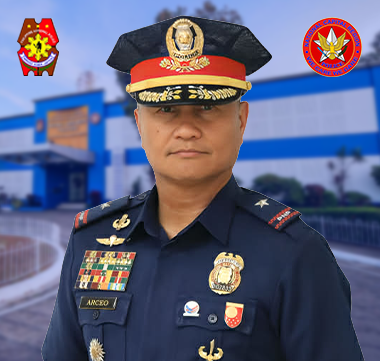
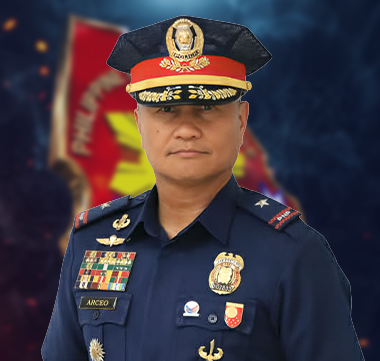
first commit

diff --git a/app/components/Loader.js b/app/components/Loader.js
@@ -5,12 +5,12 @@ import { useEffect, useState } from 'react';
 
 const BlastLoader = () => {
   const [phase, setPhase] = useState(0);
-  // phase 0 → hidden, 1 → logo in, 2 → text in, 3 → bar fills
+  // 0 → hidden | 1 → logo in | 2 → text in | 3 → bar fills
 
   useEffect(() => {
-    const t1 = setTimeout(() => setPhase(1), 100);   // logo appears
-    const t2 = setTimeout(() => setPhase(2), 700);   // text slides up
-    const t3 = setTimeout(() => setPhase(3), 1100);  // bar starts filling
+    const t1 = setTimeout(() => setPhase(1), 100);
+    const t2 = setTimeout(() => setPhase(2), 750);
+    const t3 = setTimeout(() => setPhase(3), 1050);
     return () => { clearTimeout(t1); clearTimeout(t2); clearTimeout(t3); };
   }, []);
 
@@ -18,104 +18,165 @@ const BlastLoader = () => {
     <div className="relative h-full w-full bg-[url('/bg-background.jpg')] bg-cover bg-center flex items-center justify-center overflow-hidden">
 
       {/* Dark overlay */}
-      <div className="absolute inset-0 bg-black/55" />
+      <div className="absolute inset-0 bg-black/60" />
 
-      {/* Radial glow behind logo */}
+      {/* Large ambient radial glow — breathes with logo */}
       <div
-        className="absolute w-64 h-64 rounded-full pointer-events-none transition-opacity duration-700"
+        className="absolute w-80 h-80 rounded-full pointer-events-none"
         style={{
-          background: 'radial-gradient(circle, rgba(59,130,246,0.25) 0%, transparent 70%)',
+          background: 'radial-gradient(circle, rgba(59,130,246,0.18) 0%, transparent 70%)',
           opacity: phase >= 1 ? 1 : 0,
+          transition: 'opacity 0.8s ease',
+          animation: phase >= 1 ? 'breathe 3s ease-in-out infinite' : 'none',
         }}
       />
 
-      {/* Main content */}
-      <div className="relative z-10 flex flex-col items-center gap-5 px-6">
+      {/* Main content — tighter gap */}
+      <div className="relative z-10 flex flex-col items-center gap-2 px-6">
 
-        {/* Logo — scale + fade in */}
+        {/* ── LOGO BLOCK ── */}
         <div
-          className="transition-all duration-700 ease-out"
           style={{
             opacity: phase >= 1 ? 1 : 0,
-            transform: phase >= 1 ? 'scale(1) translateY(0px)' : 'scale(0.6) translateY(20px)',
+            transform: phase >= 1 ? 'scale(1) translateY(0px)' : 'scale(0.5) translateY(24px)',
+            transition: 'opacity 0.7s ease-out, transform 0.7s cubic-bezier(0.34,1.56,0.64,1)',
           }}
         >
-          {/* Spinning ring around logo */}
           <div className="relative flex items-center justify-center">
+
+            {/* Outer ring — spins clockwise, dashed */}
             <div
-              className="absolute w-[170px] h-[170px] rounded-full border-2 border-transparent"
+              className="absolute rounded-full"
               style={{
-                background: 'conic-gradient(from 0deg, #3b82f6, #06b6d4, #6366f1, #3b82f6) border-box',
+                width: 190,
+                height: 190,
+                border: '2px dashed rgba(99,102,241,0.55)',
+                animation: phase >= 1 ? 'spinCW 6s linear infinite' : 'none',
+              }}
+            />
+
+            {/* Middle ring — spins counter-clockwise, solid gradient */}
+            <div
+              className="absolute rounded-full"
+              style={{
+                width: 170,
+                height: 170,
+                border: '2.5px solid transparent',
+                backgroundImage: 'conic-gradient(from 0deg, #3b82f6 0%, #06b6d4 40%, transparent 60%, #6366f1 80%, #3b82f6 100%)',
+                backgroundOrigin: 'border-box',
                 WebkitMask: 'linear-gradient(#fff 0 0) padding-box, linear-gradient(#fff 0 0)',
                 WebkitMaskComposite: 'destination-out',
                 maskComposite: 'exclude',
-                animation: phase >= 1 ? 'spin 2.5s linear infinite' : 'none',
+                animation: phase >= 1 ? 'spinCCW 3s linear infinite' : 'none',
               }}
             />
-            {/* Glow ring */}
+
+            {/* Inner glow ring — breathes */}
             <div
-              className="absolute w-[155px] h-[155px] rounded-full"
+              className="absolute rounded-full"
               style={{
-                boxShadow: phase >= 1 ? '0 0 30px 8px rgba(59,130,246,0.35)' : 'none',
-                transition: 'box-shadow 0.8s ease',
+                width: 152,
+                height: 152,
+                boxShadow: phase >= 1
+                  ? '0 0 0 3px rgba(59,130,246,0.15), 0 0 28px 6px rgba(59,130,246,0.3), inset 0 0 20px 4px rgba(59,130,246,0.1)'
+                  : 'none',
+                transition: 'box-shadow 0.9s ease',
+                animation: phase >= 1 ? 'glowPulse 2.5s ease-in-out infinite' : 'none',
+                borderRadius: '50%',
               }}
             />
+
+            {/* Logo image */}
             <Image
-              src="/NCRPO_logo.png"
+              src="/pnp-logo.png"
               alt="SPD Logo"
               width={250}
               height={250}
-              className="relative z-10 drop-shadow-[0_4px_16px_rgba(59,130,246,0.5)]"
+              className="relative z-10"
+              style={{
+                filter: phase >= 1
+                  ? 'drop-shadow(0 0 12px rgba(255, 0, 64, 0.5)) drop-shadow(0 4px 16px rgba(0,0,0,0.6))'
+                  : 'none',
+                transition: 'filter 0.8s ease',
+                animation: phase >= 1 ? 'logoFloat 4s ease-in-out infinite' : 'none',
+              }}
               priority
             />
+
           </div>
         </div>
 
-        {/* Text block — slide up + fade in */}
+        {/* ── TEXT BLOCK — tight to logo ── */}
         <div
-          className="flex flex-col items-center text-center gap-1 transition-all duration-700 ease-out"
+          className="flex flex-col items-center text-center"
           style={{
             opacity: phase >= 2 ? 1 : 0,
-            transform: phase >= 2 ? 'translateY(0px)' : 'translateY(18px)',
+            transform: phase >= 2 ? 'translateY(0px)' : 'translateY(14px)',
+            transition: 'opacity 0.6s ease-out, transform 0.6s ease-out',
+            gap: '2px',
           }}
         >
-          <h1 className="text-lg font-extrabold tracking-widest text-white drop-shadow-[0_2px_8px_rgba(0,0,0,0.8)] uppercase">
-            National Capital Region Police Office
-          </h1>
-          <p
-            className="text-[11px] tracking-[0.3em] uppercase font-medium transition-all duration-500"
+          <h1
+            className="font-extrabold uppercase text-white"
             style={{
-              opacity: phase >= 2 ? 1 : 0,
-              color: '#93c5fd',
-              transitionDelay: '150ms',
+              fontSize: '1rem',
+              letterSpacing: '0.2em',
+              textShadow: '0 2px 12px rgba(0,0,0,0.9), 0 0 20px rgba(59,130,246,0.4)',
+              lineHeight: 1.2,
             }}
           >
-            We Care We Dare
-          </p>
+        philippine national police
+          </h1>
+          
         </div>
 
-        {/* Progress bar */}
+        {/* ── PROGRESS BAR ── */}
         <div
-          className="w-48 h-[3px] rounded-full bg-white/10 overflow-hidden transition-opacity duration-500"
-          style={{ opacity: phase >= 3 ? 1 : 0 }}
+          style={{
+            marginTop: '14px',
+            width: '160px',
+            height: '2px',
+            borderRadius: '9999px',
+            background: 'rgba(255,255,255,0.08)',
+            overflow: 'hidden',
+            opacity: phase >= 3 ? 1 : 0,
+            transition: 'opacity 0.4s ease',
+          }}
         >
           <div
-            className="h-full rounded-full"
             style={{
+              height: '100%',
+              borderRadius: '9999px',
               background: 'linear-gradient(90deg, #3b82f6, #06b6d4, #6366f1)',
               width: phase >= 3 ? '100%' : '0%',
-              transition: 'width 2.2s cubic-bezier(0.4, 0, 0.2, 1)',
+              transition: 'width 2.3s cubic-bezier(0.4, 0, 0.2, 1)',
+              boxShadow: '0 0 8px rgba(59,130,246,0.7)',
             }}
           />
         </div>
 
       </div>
 
-      {/* Keyframe for the spinning ring (inline style fallback) */}
       <style>{`
-        @keyframes spin {
+        @keyframes spinCW {
           from { transform: rotate(0deg); }
           to   { transform: rotate(360deg); }
+        }
+        @keyframes spinCCW {
+          from { transform: rotate(0deg); }
+          to   { transform: rotate(-360deg); }
+        }
+        @keyframes glowPulse {
+          0%, 100% { box-shadow: 0 0 0 3px rgba(59,130,246,0.15), 0 0 28px 6px rgba(59,130,246,0.3), inset 0 0 20px 4px rgba(59,130,246,0.1); }
+          50%       { box-shadow: 0 0 0 5px rgba(99,102,241,0.2),  0 0 40px 12px rgba(99,102,241,0.45), inset 0 0 28px 8px rgba(99,102,241,0.15); }
+        }
+        @keyframes logoFloat {
+          0%, 100% { transform: translateY(0px); }
+          50%       { transform: translateY(-5px); }
+        }
+        @keyframes breathe {
+          0%, 100% { transform: scale(1);    opacity: 0.9; }
+          50%       { transform: scale(1.15); opacity: 1;   }
         }
       `}</style>
     </div>

diff --git a/app/page.js b/app/page.js
@@ -25,13 +25,18 @@ export default function Home() {
     <div className="min-h-screen w-full flex flex-col items-center justify-center p-3 sm:p-8 font-[family-name:var(--font-geist-sans)] select-none">
       <div className="relative group w-full flex justify-center">
         {/* Tablet & Desktop Ambient Glow Effect */}
-        <div className="absolute -inset-1 bg-gradient-to-r from-blue-600 via-cyan-500 to-indigo-600 rounded-2xl blur-2xl opacity-20 group-hover:opacity-35 transition duration-1000 group-hover:duration-300 pointer-events-none hidden md:block"></div>
+        <div className="absolute -inset-1 bg-gradient-to-r from-red-600 via-rose-500 to-red-700 rounded-2xl blur-2xl opacity-20 group-hover:opacity-35 transition duration-1000 group-hover:duration-300 pointer-events-none hidden md:block"></div>
         
         {/* Outer border container with rotating conic gradient */}
-        <div className="relative w-full max-w-[290px] min-[360px]:max-w-[340px] sm:max-w-[360px] md:max-w-[380px] p-[2px] rounded-2xl overflow-hidden bg-slate-900 shadow-2xl transition-all duration-300 hover:shadow-[0_20px_50px_rgba(30,58,138,0.4)] hover:-translate-y-0.5">
+        <div className="relative w-full max-w-[290px] min-[360px]:max-w-[340px] sm:max-w-[360px] md:max-w-[380px] p-[2px] rounded-2xl overflow-hidden bg-slate-900 shadow-2xl transition-all duration-300 hover:shadow-[0_20px_50px_rgba(185,28,28,0.4)] hover:-translate-y-0.5">
           
-          {/* Rotating Light Line (Conic Gradient) */}
-          <div className="absolute inset-[-1000%] animate-[spin_8s_linear_infinite] bg-[conic-gradient(from_90deg_at_50%_50%,#0055ff_0%,#00f0ff_25%,#090d16_50%,#00f0ff_75%,#0055ff_100%)]"></div>
+          {/* Rotating Light Line (Conic Gradient) — neon red, reduced opacity */}
+          <div
+            className="absolute inset-[-1000%] animate-[spin_8s_linear_infinite]"
+            style={{
+              background: 'conic-gradient(from 90deg at 50% 50%, rgba(220,38,38,0.55) 0%, rgba(248,113,113,0.35) 25%, #090d16 50%, rgba(248,113,113,0.35) 75%, rgba(220,38,38,0.55) 100%)',
+            }}
+          />
           
           {/* Calling Card Inner Container */}
           <div className="relative w-full bg-slate-950 rounded-[14px] overflow-hidden flex flex-col">
@@ -58,9 +63,18 @@ export default function Home() {
                 <h2 className="text-[19px] min-[360px]:text-[22px] sm:text-2xl font-black text-white text-center tracking-wide leading-tight">
                   PBGEN RANDY Y ARCEO
                 </h2>
-                <p className="text-[7px] tracking-[0.25em] min-[360px]:tracking-[0.4em] text-blue-200 text-center uppercase font-medium mt-1">
-                  Acting, Deputy Regional Director for Administration
-                </p>
+
+                {/* Decorative line divider */}
+                <div className="flex items-center justify-center gap-2 mt-3 w-full max-w-[220px]">
+                  <div className="flex-1 h-[1px] bg-gradient-to-r from-transparent via-blue-400/60 to-blue-300/80" />
+                  <div className="flex items-center gap-1">
+                    <div className="w-1 h-1 rounded-full bg-blue-300/70" />
+                    <div className="w-1.5 h-1.5 rotate-45 bg-blue-200/90 shadow-[0_0_4px_rgba(147,197,253,0.8)]" />
+                    <div className="w-1 h-1 rounded-full bg-blue-300/70" />
+                  </div>
+                  <div className="flex-1 h-[1px] bg-gradient-to-l from-transparent via-blue-400/60 to-blue-300/80" />
+                </div>
+
               </div>
             </div>
 
@@ -71,14 +85,14 @@ export default function Home() {
                 text="SLIDE TO CALL"
                 targetUrl={`tel:${phoneNumber}`}
                 successText="CALLING..."
-                activeColorClass="from-blue-600 to-cyan-500"
+                activeColorClass="from-red-600 to-rose-500"
               />
               <SlideButton
                 iconSrc="/mail.png"
                 text="SLIDE TO EMAIL"
                 targetUrl={`mailto:${emailAddress}`}
                 successText="EMAILING..."
-                activeColorClass="from-indigo-600 to-purple-500"
+                activeColorClass="from-red-700 to-red-500"
               />
             </div>
 
@@ -89,14 +103,24 @@ export default function Home() {
 
             {/* Footer Logo & Tagline */}
             <div className="flex flex-col items-center gap-2 pb-6 pt-2 px-5 bg-slate-950/40 border-t border-slate-900/50">
-              <Image
-                src="/Bagong-Pilipinas-logo.svg"
-                alt="Bagong Pilipinas Logo"
-                width={42}
-                height={42}
-                className="opacity-90 drop-shadow-[0_2px_8px_rgba(255,255,255,0.1)]"
-                aria-hidden="true"
-              />
+              <div className="flex items-center justify-center gap-3">
+                <Image
+                  src="/pnp-logo.svg"
+                  alt="PNP Logo"
+                  width={42}
+                  height={42}
+                  className="opacity-90 drop-shadow-[0_2px_8px_rgba(255,255,255,0.1)]"
+                  aria-hidden="true"
+                />
+                <Image
+                  src="/Bagong-Pilipinas-logo.svg"
+                  alt="Bagong Pilipinas Logo"
+                  width={42}
+                  height={42}
+                  className="opacity-90 drop-shadow-[0_2px_8px_rgba(255,255,255,0.1)]"
+                  aria-hidden="true"
+                />
+              </div>
               <p className="text-[10px] min-[360px]:text-xs text-center text-slate-400 font-medium max-w-[260px] min-[360px]:max-w-[300px] leading-relaxed">
                 “Bagong PNP para sa Bagong Pilipinas: Serbisyong Mabilis, Tapat, at Nararamdaman”
               </p>

diff --git a/app/components/SlideButton.js b/app/components/SlideButton.js
@@ -2,7 +2,7 @@
 import { useState, useRef, useEffect } from 'react';
 import Image from 'next/image';
 
-export default function SlideButton({ iconSrc, text, targetUrl, successText, activeColorClass = 'from-blue-600 to-indigo-600' }) {
+export default function SlideButton({ iconSrc, text, targetUrl, successText, activeColorClass = 'from-red-600 to-rose-500' }) {
   const [dragX, setDragX] = useState(0);
   const [isDragging, setIsDragging] = useState(false);
   const [isCompleted, setIsCompleted] = useState(false);
@@ -77,7 +77,7 @@ export default function SlideButton({ iconSrc, text, targetUrl, successText, act
   return (
     <div 
       ref={containerRef}
-      className="relative w-full max-w-[320px] h-16 bg-blue-950/70 border border-blue-900/40 rounded-full flex items-center p-1 overflow-hidden select-none shadow-[inset_0_2px_6px_rgba(0,0,0,0.8)] touch-none"
+      className="relative w-full max-w-[320px] h-16 bg-slate-900/80 border border-slate-700/50 rounded-full flex items-center p-1 overflow-hidden select-none shadow-[inset_0_2px_6px_rgba(0,0,0,0.8)] touch-none"
     >
       {/* Background Completed Progress Gradient */}
       <div 

diff --git a/app/components/AddContact.js b/app/components/AddContact.js
@@ -42,7 +42,7 @@ export default function App() {
   return (
     <div className="flex w-full justify-center mt-5 px-6">
       <button
-        className="w-full max-w-[320px] px-6 py-4 bg-gradient-to-r from-yellow-500 via-amber-500 to-yellow-600 hover:from-yellow-400 hover:to-amber-500 text-slate-950 rounded-full font-extrabold tracking-widest outline-none focus:ring-2 focus:ring-yellow-400 shadow-[0_4px_15px_rgba(245,158,11,0.3)] hover:shadow-[0_4px_20px_rgba(245,158,11,0.5)] transform active:scale-95 transition-all duration-200 flex items-center justify-center gap-2 text-sm cursor-pointer"
+        className="w-full max-w-[320px] px-6 py-4 bg-gradient-to-r from-red-600 via-rose-600 to-red-700 hover:from-red-500 hover:to-rose-600 text-white rounded-full font-extrabold tracking-widest outline-none focus:ring-2 focus:ring-red-400 shadow-[0_4px_15px_rgba(220,38,38,0.3)] hover:shadow-[0_4px_20px_rgba(220,38,38,0.5)] transform active:scale-95 transition-all duration-200 flex items-center justify-center gap-2 text-sm cursor-pointer"
         onClick={downloadVCF}
       >
         <MdCloudDownload className="text-xl" />
